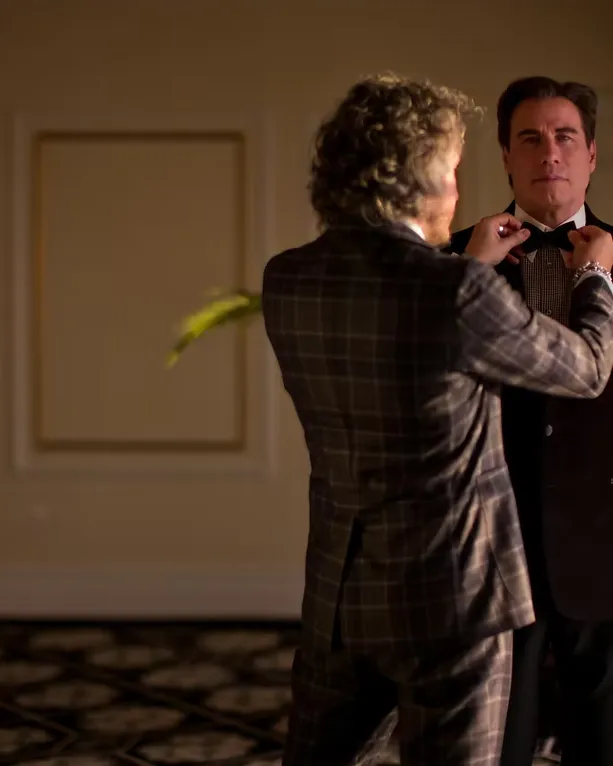
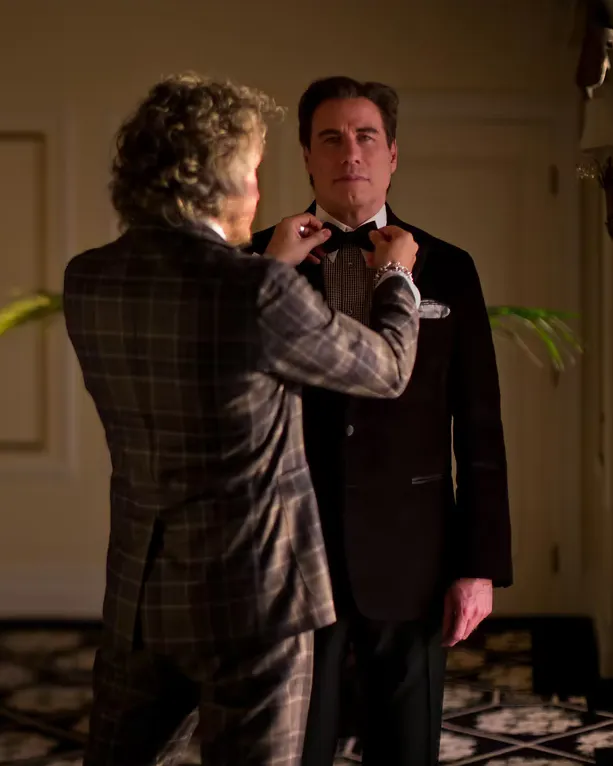
fix(content): return the bow-tie Travolta photo to The House with a better crop
Recomposed the 4:5 crop so Travolta is centered and facing camera with
Matteo in profile making the bow-tie adjustment (was centered between the
two figures, which let Matteo's back dominate the frame). The red-carpet
portrait comes off the page (asset kept in the library); Bespoke's 'The
Handover' returns to the measuring photograph.

diff --git a/src/components/TheHouse.tsx b/src/components/TheHouse.tsx
@@ -181,8 +181,8 @@ export const TheHouse: React.FC = () => {
                             <RevealOnScroll>
                                 <div className="relative aspect-[4/5] overflow-hidden">
                                     <ResponsiveImage
-                                        baseSrc="/assets/bespoke/travolta-cannes.webp"
-                                        alt="John Travolta — the collaboration ran on screen and off"
+                                        baseSrc="/assets/bespoke/travolta-handover.webp"
+                                        alt="Matteo Perin adjusting John Travolta's bow tie at a private fitting"
                                         className="w-full h-full object-cover"
                                     />
                                     <div className="absolute inset-0 bg-gradient-to-t from-black/10 via-transparent to-transparent pointer-events-none" />

diff --git a/src/constants.ts b/src/constants.ts
@@ -41,9 +41,9 @@ export const IMAGES = {
   // Journal
   journal_1: "/assets/journal/journal_1_patina.webp",
   journal_2: "/assets/journal/journal_2_dolomites.webp",
-  // The Handover step — the finished commission, final bow-tie adjustment.
-  // (The House, Chapter II uses a different Travolta photograph: travolta-cannes.)
-  journal_3: "/assets/bespoke/travolta-handover.webp",
+  // The Handover step — Matteo with a client, final adjustments by hand.
+  // (The bow-tie Travolta photograph lives on The House, Chapter II.)
+  journal_3: "/assets/bespoke/600341967_1477403550634637_5526575741896032656_n.webp",
   journal_4: "/assets/bespoke/fitting.avif",
   journal_5: "/assets/journal/journal_5_urban.webp",
 
